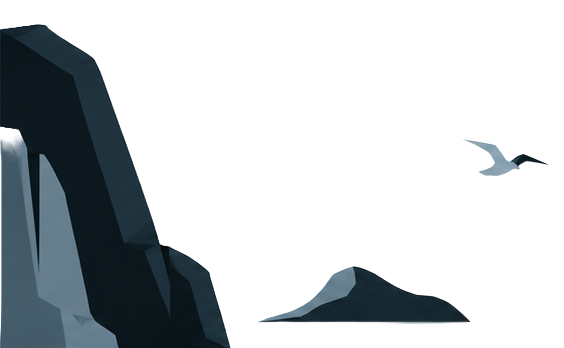
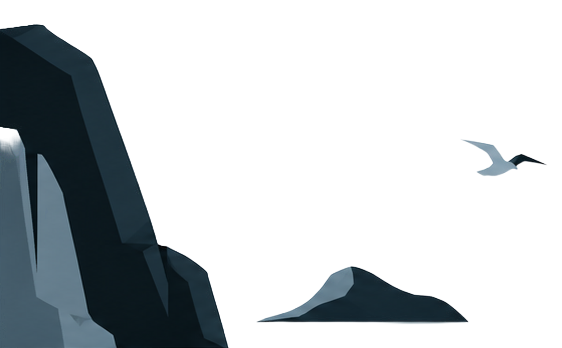
feat: add decorative background images to the about section with responsive styling

diff --git a/style.css b/style.css
@@ -304,6 +304,67 @@ p {
 /* About Section */
 .about {
     background-color: var(--bg-light);
+    position: relative;
+    overflow: hidden;
+}
+
+.about-bg-left {
+    position: absolute;
+    bottom: 0;
+    left: 0;
+    height: 55%;
+    max-height: 250px;
+    width: auto;
+    object-fit: contain;
+    opacity: 1;
+    pointer-events: none;
+    z-index: 0;
+}
+
+.about-bg-right {
+    position: absolute;
+    bottom: 0;
+    right: 0;
+    height: 55%;
+    max-height: 200px;
+    width: auto;
+    object-fit: contain;
+    opacity: 1;
+    pointer-events: none;
+    z-index: 0;
+}
+
+@media (max-width: 768px) {
+    .about-bg-left {
+        position: absolute;
+        bottom: 0;
+        left: 0;
+        height: 55%;
+        max-height: 120px;
+        width: auto;
+        object-fit: contain;
+        opacity: 1;
+        pointer-events: none;
+        z-index: 0;
+    }
+
+    .about-bg-right {
+        position: absolute;
+        bottom: 0;
+        right: 0;
+        height: 55%;
+        max-height: 70px;
+        width: auto;
+        object-fit: contain;
+        opacity: 1;
+        pointer-events: none;
+        z-index: 0;
+    }
+}
+
+.about .container {
+    position: relative;
+    z-index: 1;
 }
 
 .about-content {

diff --git a/index.html b/index.html
@@ -69,6 +69,8 @@
                 </div>
             </div>
         </div>
+        <img src="assets/gory_i_ptak.png" alt="" class="about-bg-left" />
+        <img src="assets/statek.png" alt="" class="about-bg-right" />
     </section>
 
     <!-- Projects Section -->
